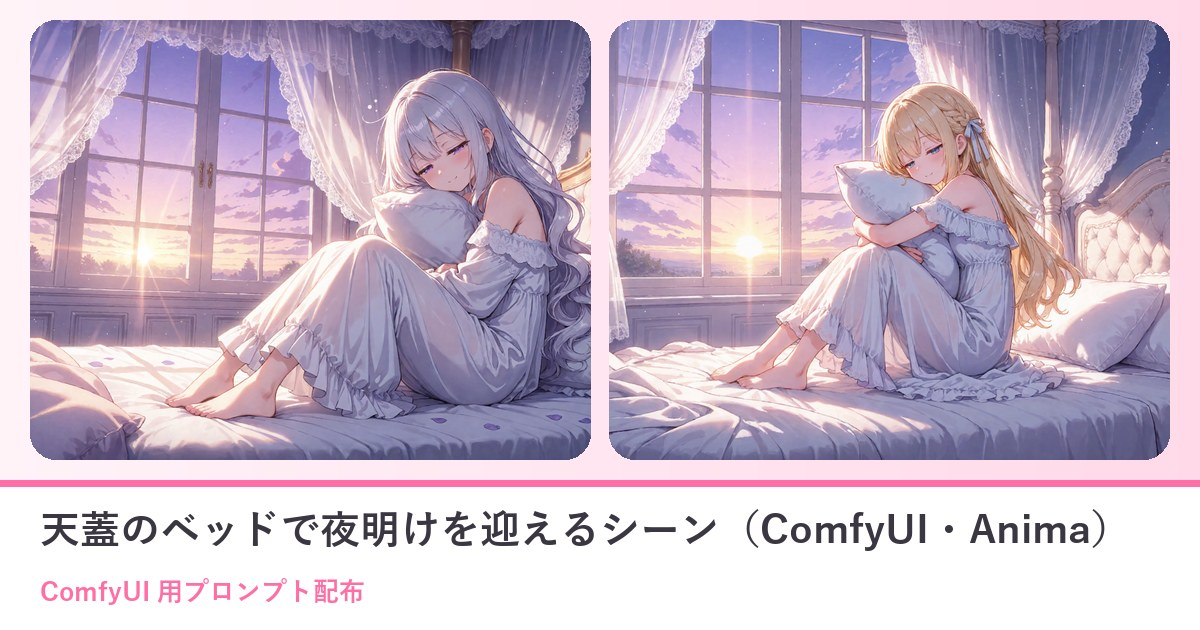
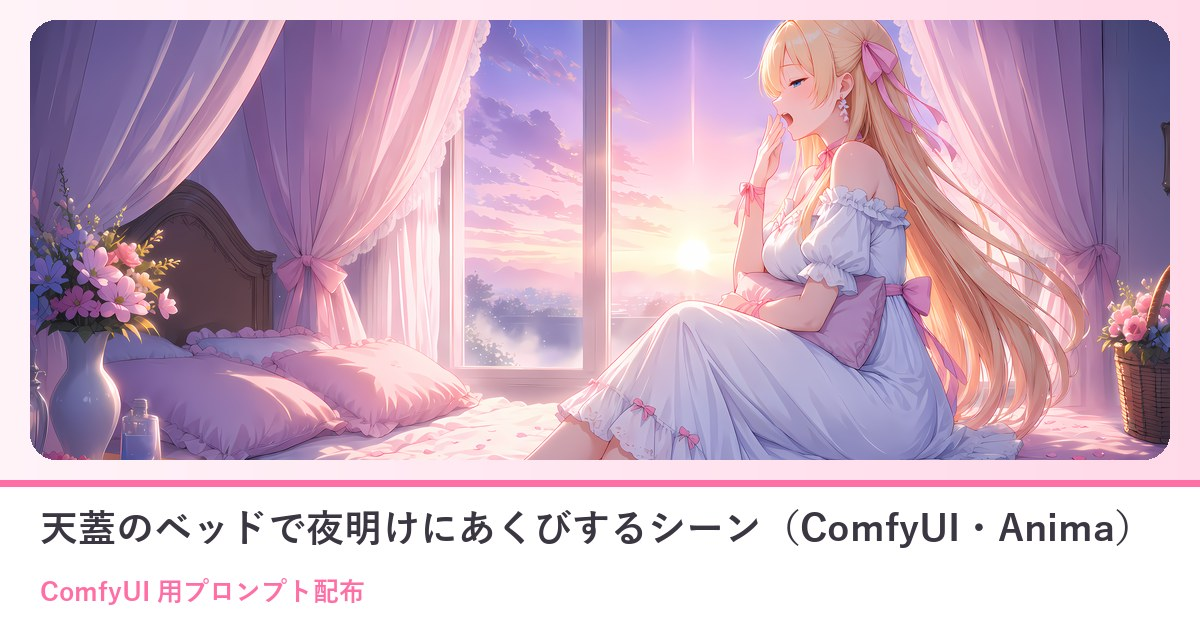
プロンプト配布 10/02 眠り姫 ComfyUI を1枚・LoRA あり／なしに作り直し

diff --git a/prompts/2026-10-02-comfy-btnmj75m.html b/prompts/2026-10-02-comfy-btnmj75m.html
@@ -3,17 +3,17 @@
 <head>
 <meta charset="UTF-8"><meta name="robots" content="noindex, nofollow, noarchive"><meta name="referrer" content="strict-origin">
 <meta name="viewport" content="width=device-width, initial-scale=1">
-<title>天蓋のベッドで夜明けを迎えるシーン（ComfyUI・Anima）｜ひみつの眠り姫</title>
-<meta name="description" content="レースのカーテンが透ける天蓋のベッドに、紫色の夜明けの光。白いネグリジェで枕をぎゅっと抱えて、まだ眠たげに微笑むお姫さまのシーンのプロンプトです。オリキャラがいなくても、そのまま貼るだけで綺麗な女の子で出ます。自分のキャ">
-<meta property="og:title" content="天蓋のベッドで夜明けを迎えるシーン（ComfyUI・Anima）｜ひみつの眠り姫">
-<meta property="og:description" content="レースのカーテンが透ける天蓋のベッドに、紫色の夜明けの光。白いネグリジェで枕をぎゅっと抱えて、まだ眠たげに微笑むお姫さまのシーンのプロンプトです。オリキャラがいなくても、そのまま貼るだけで綺麗な女の子で出ます。自分のキャ">
+<title>天蓋のベッドで夜明けにあくびするシーン（ComfyUI・Anima）｜ひみつの眠り姫</title>
+<meta name="description" content="レースのカーテンが透ける天蓋のベッドに、紫色の夜明けの光。枕をぎゅっと抱えたまま、口もとに手をあてて小さくあくびをする、まだ眠たげなお姫さまのシーンのプロンプトです。LoRA が無くても、A をそのまま貼るだけで綺麗な女">
+<meta property="og:title" content="天蓋のベッドで夜明けにあくびするシーン（ComfyUI・Anima）｜ひみつの眠り姫">
+<meta property="og:description" content="レースのカーテンが透ける天蓋のベッドに、紫色の夜明けの光。枕をぎゅっと抱えたまま、口もとに手をあてて小さくあくびをする、まだ眠たげなお姫さまのシーンのプロンプトです。LoRA が無くても、A をそのまま貼るだけで綺麗な女">
 <meta property="og:type" content="article">
 <meta property="og:url" content="https://himitsu-nemurihime.github.io/prompts/2026-10-02-comfy-btnmj75m.html">
 <meta property="og:image" content="https://himitsu-nemurihime.github.io/prompts/img/2026-10-02-comfy-btnmj75m/og.jpg">
 <meta property="og:image:width" content="1200"><meta property="og:image:height" content="630">
 <meta name="twitter:card" content="summary_large_image">
-<meta name="twitter:title" content="天蓋のベッドで夜明けを迎えるシーン（ComfyUI・Anima）｜ひみつの眠り姫">
-<meta name="twitter:description" content="レースのカーテンが透ける天蓋のベッドに、紫色の夜明けの光。白いネグリジェで枕をぎゅっと抱えて、まだ眠たげに微笑むお姫さまのシーンのプロンプトです。オリキャラがいなくても、そのまま貼るだけで綺麗な女の子で出ます。自分のキャ">
+<meta name="twitter:title" content="天蓋のベッドで夜明けにあくびするシーン（ComfyUI・Anima）｜ひみつの眠り姫">
+<meta name="twitter:description" content="レースのカーテンが透ける天蓋のベッドに、紫色の夜明けの光。枕をぎゅっと抱えたまま、口もとに手をあてて小さくあくびをする、まだ眠たげなお姫さまのシーンのプロンプトです。LoRA が無くても、A をそのまま貼るだけで綺麗な女">
 <meta name="twitter:image" content="https://himitsu-nemurihime.github.io/prompts/img/2026-10-02-comfy-btnmj75m/og.jpg">
 <meta name="theme-color" content="#FFF3F8">
 <link rel="preconnect" href="https://fonts.googleapis.com">
@@ -68,15 +68,17 @@
 @media(max-width:560px){.ps-ba{grid-template-columns:1fr}.ps-ba .arr{transform:rotate(90deg);text-align:center}.ps-vars,.ps-vars tbody,.ps-vars tr,.ps-vars th,.ps-vars td{display:block;width:auto;white-space:normal}.ps-vars tr:first-child{display:none}.ps-vars tr{border-bottom:1px solid var(--ps-line);padding:4px 0}.ps-vars th,.ps-vars td{border:0;padding:6px 12px}}
 .ps{overflow-wrap:anywhere}.ps-vars td,.ps-vars th{overflow-wrap:anywhere}.ps img{max-width:100%}
 </style>
-<!--ps-meta {"date": "2026-10-02", "title": "天蓋のベッドで夜明けを迎えるシーン（ComfyUI・Anima）", "kind": "comfy", "nsfw": false, "summary": "天蓋のベッドで枕を抱えて、紫の夜明けに眠たげに微笑む一枚。貼るだけで作れます。", "thumb": "img/2026-10-02-comfy-btnmj75m/ex1.webp"}-->
+<!--ps-meta {"date": "2026-10-02", "title": "天蓋のベッドで夜明けにあくびするシーン（ComfyUI・Anima）", "kind": "comfy", "nsfw": false, "summary": "天蓋のベッドで枕を抱えて、紫の夜明けにあくびする一枚。LoRA あり／なしの2通り。", "thumb": "img/2026-10-02-comfy-btnmj75m/ex1.webp"}-->
 </head>
 <body>
 <div class="sky"></div>
 <main class="wrap">
-<section class="sec"><div class="sec-head"><h2>天蓋のベッドで夜明けを迎えるシーン（ComfyUI・Anima）</h2><p>ひみつの眠り姫のプロンプト配布</p></div>
-<div class="ps"><p><span class="ps-badge">ComfyUI 用</span><span class="ps-badge">2026-10-02</span></p><p class="ps-lead">レースのカーテンが透ける天蓋のベッドに、紫色の夜明けの光。白いネグリジェで枕をぎゅっと抱えて、まだ眠たげに微笑むお姫さまのシーンのプロンプトです。オリキャラがいなくても、そのまま貼るだけで綺麗な女の子で出ます。自分のキャラにしたいときは、1行目の見た目だけ書き換えてください。</p><nav class="ps-toc" aria-label="目次"><p>📑 目次</p><ol><li><a href="#sec1">作例</a></li><li><a href="#sec2">3人のおしゃべり（あと五分だけ）</a></li><li><a href="#sec3">使い方（3ステップ）</a></li><li><a href="#sec4">プロンプト</a></li><li><a href="#sec5">必要なもの（ComfyUI）</a></li><li><a href="#sec6">メモ</a></li><li><a href="#sec7">配布ルール</a></li><li><a href="#sec8">バックナンバー</a></li></ol></nav><h2 id="sec1">作例</h2><div class="ps-ex"><figure><img src="img/2026-10-02-comfy-btnmj75m/ex1.webp" alt="1行目そのまま（1girl, solo, long hair, wavy hair, silver hair, purple eyes）" loading="lazy"><figcaption>1行目そのまま（1girl, solo, long hair, wavy hair, silver hair, purple eyes）</figcaption></figure><figure><img src="img/2026-10-02-comfy-btnmj75m/ex2.webp" alt="1行目を「1girl, solo, long hair, blonde hair, braid, hair ribbon, blue eyes」に" loading="lazy"><figcaption>1行目を「1girl, solo, long hair, blonde hair, braid, hair ribbon, blue eyes」に</figcaption></figure><figure><img src="img/2026-10-02-comfy-btnmj75m/ex3.webp" alt="1行目を「1girl, solo, medium hair, light green hair, pink streaks, hair flower, green eyes」に" loading="lazy"><figcaption>1行目を「1girl, solo, medium hair, light green hair, pink streaks, hair flower, green eyes」に</figcaption></figure><figure><img src="img/2026-10-02-comfy-btnmj75m/ex4.webp" alt="1行目を「1girl, solo, short hair, black hair, hairclip, red eyes」に" loading="lazy"><figcaption>1行目を「1girl, solo, short hair, black hair, hairclip, red eyes」に</figcaption></figure></div><p style="font-size:.82rem;color:var(--ps-ink)">※作例の画像の転載・保存しての再配布はご遠慮ください。</p><h2 id="sec2">3人のおしゃべり（あと五分だけ）</h2><div class="ps-chat"><img src="img/2026-10-02-comfy-btnmj75m/talk_ref_tiru.webp" alt="ティルナ" loading="lazy"><div><div class="who">ティルナ</div><div class="bub">見て見て！ 枕をぎゅーってして、まだ眠たそうに笑ってる〜！ あと五分だけ、ってお顔だよ！</div></div></div><div class="ps-chat r"><img src="img/2026-10-02-comfy-btnmj75m/talk_ref_sefi.webp" alt="セフィリア" loading="lazy"><div><div class="who">セフィリア</div><div class="bub">まあ……天蓋のレースのカーテン越しに、紫色の夜明けの光。窓辺のお花まで、朝の色に染まっておりますね</div></div></div><div class="ps-chat r"><img src="img/2026-10-02-comfy-btnmj75m/talk_ref_lilia.webp" alt="リリア" loading="lazy"><div><div class="who">リリア</div><div class="bub">1行目の髪の色を書き換えるだけで、金髪の三つ編みにも、黒髪のショートにもなりますの。オリキャラがいなくても、そのままで綺麗に出ますわ</div></div></div><div class="ps-chat"><img src="img/2026-10-02-comfy-btnmj75m/talk_ref_tiru.webp" alt="ティルナ" loading="lazy"><div><div class="who">ティルナ</div><div class="bub">白いネグリジェのフリル、ふわっふわ……わたしもこのベッドで二度寝したい〜！</div></div></div><div class="ps-chat r"><img src="img/2026-10-02-comfy-btnmj75m/talk_ref_sefi.webp" alt="セフィリア" loading="lazy"><div><div class="who">セフィリア</div><div class="bub">ぱっちりお目覚めの顔にしたいときは、2行目の half-closed eyes を消せばよいそうでございます</div></div></div><div class="ps-chat r"><img src="img/2026-10-02-comfy-btnmj75m/talk_ref_lilia.webp" alt="リリア" loading="lazy"><div><div class="who">リリア</div><div class="bub">でも眠たげなままのほうが、眠り姫らしくて可愛らしいですわね。おはようございます、ですわ</div></div></div><h2 id="sec3">使い方（3ステップ）</h2><ol class="ps-steps"><li>ComfyUI で Anima のモデルを読み、基本の画像生成（テキストから画像）の画面にする</li><li>下のポジティブとネガティブをワンタップでコピーして貼る（自分のキャラにするなら1行目だけ書き換える）</li><li>「推奨値」の大きさ・steps・CFG にして生成する（できれば 1.5 倍の hires fix も）</li></ol><h2 id="sec4">プロンプト</h2><div class="ps-note" style="margin-bottom:12px"><b>変えるのは1行目（色の付いた行）だけ</b><ul><li>1行目＝キャラの見た目（髪の色・髪型・目の色など）。自分のキャラの特徴に書き換えてね</li><li>オリキャラがいない人は、<b>そのまま</b>コピーして使えばOK（作例の女の子で出ます）</li><li>自分のキャラの LoRA がある人は、1行目に LoRA のトリガー語を入れてね</li><li>2行目から下（シーン）と、ネガティブプロンプトは変えずにそのまま</li><li>🚫 版権キャラの名前・版権キャラの LoRA を入れて使うのは固く禁止です（下の「配布ルール」）</li></ul></div><div class="ps-box"><button class="ps-copy" type="button" data-target="ps-prompt">📋 ワンタップでコピー</button><p style="margin:0 0 8px;font-size:.82rem;color:var(--ps-a)">ポジティブプロンプト</p><pre><mark class="ps-in" data-key="キャラの行">1girl, solo, long hair, wavy hair, silver hair, purple eyes</mark>
-masterpiece, best quality, score_7, safe, sleepy smile, half-closed eyes, sitting on bed, hugging pillow, white nightgown, frilled dress, lace trim, off shoulder, bare shoulders, wide shot, from side, canopy bed, sheer curtains, lace curtains, white sheets, messy bed, bedroom, window, dawn, sunrise, morning light, purple sky, light rays, dust particles, flower vase, pastel colors, depth of field, detailed background, scenery, cinematic lighting, ethereal</pre><textarea class="ps-copyarea" id="ps-prompt" readonly aria-hidden="true" tabindex="-1">1girl, solo, long hair, wavy hair, silver hair, purple eyes
-masterpiece, best quality, score_7, safe, sleepy smile, half-closed eyes, sitting on bed, hugging pillow, white nightgown, frilled dress, lace trim, off shoulder, bare shoulders, wide shot, from side, canopy bed, sheer curtains, lace curtains, white sheets, messy bed, bedroom, window, dawn, sunrise, morning light, purple sky, light rays, dust particles, flower vase, pastel colors, depth of field, detailed background, scenery, cinematic lighting, ethereal</textarea></div><div style="height:12px"></div><div class="ps-box"><button class="ps-copy" type="button" data-target="ps-negative">📋 ワンタップでコピー</button><p style="margin:0 0 8px;font-size:.82rem;color:var(--ps-a)">ネガティブプロンプト</p><pre>worst quality, low quality, lowres, bad anatomy, bad hands, extra fingers, missing fingers, fused fingers, blurry, jpeg artifacts, text, watermark, signature, logo, extra person, multiple girls, cropped, out of frame, japanese text, chinese text, korean text, kanji, hiragana, katakana, calligraphy</pre><textarea class="ps-copyarea" id="ps-negative" readonly aria-hidden="true" tabindex="-1">worst quality, low quality, lowres, bad anatomy, bad hands, extra fingers, missing fingers, fused fingers, blurry, jpeg artifacts, text, watermark, signature, logo, extra person, multiple girls, cropped, out of frame, japanese text, chinese text, korean text, kanji, hiragana, katakana, calligraphy</textarea></div><h2 id="sec5">必要なもの（ComfyUI）</h2><div class="ps-note">🧩 <b>カスタムノードは使っていません</b>。LoRA も要りません。ComfyUI の基本の画像生成（テキストから画像）に、ポジティブ・ネガティブを貼って、下の推奨値にするだけです。</div><table class="ps-vars" style="margin-top:12px"><tr><th>モデル</th><th>ファイル</th><th>置き場</th></tr><tr><td>Anima 系のモデル</td><td>PrismPalette_ANIMA_v1 など好きな Anima</td><td><code>models/diffusion_models</code></td></tr><tr><td>テキストエンコーダ（Anima 用）</td><td>qwen_3_06b_base.safetensors</td><td><code>models/text_encoders</code></td></tr><tr><td>VAE（Anima 用）</td><td>qwen_image_vae.safetensors</td><td><code>models/vae</code></td></tr></table><h2>推奨値</h2><table class="ps-vars"><tr><th>大きさ</th><td colspan="2">1536×864（横長＝ベッドと窓の夜明けまで入る）</td></tr><tr><th>steps</th><td colspan="2">30</td></tr><tr><th>CFG</th><td colspan="2">4.5</td></tr><tr><th>sampler</th><td colspan="2">er_sde</td></tr><tr><th>scheduler</th><td colspan="2">beta</td></tr><tr><th>hires fix（任意）</th><td colspan="2">1.5 倍に拡大して denoise 0.4・同じ steps と CFG（作例はこれ）</td></tr><tr><th>LoRA</th><td colspan="2">要りません（自分のキャラの LoRA があれば使ってOK）</td></tr></table><h2 id="sec6">メモ</h2><ul class="ps-rules"><li>1行目には見た目だけを書いてください（髪の色・長さ・髪型・髪飾り・目の色など）。ネグリジェやお部屋は2行目からに入っているので、書かなくて大丈夫です。</li><li>目は半分とじた眠たげな顔になります。ぱっちり起こしたいときは、2行目の half-closed eyes を消してください。</li><li>手は枕を抱える形にしてあるので、くずれにくくなっています。くずれたら seed を変えて何枚か焼いてください。</li><li>ほかのモデル（SDXL・Illustrious など）でも、2行目の先頭の masterpiece, best quality, score_7, safe をそのモデルの品質の語に替えれば使えます（作例は Anima です）。</li></ul><h2 id="sec7">配布ルール</h2><ul class="ps-rules"><li>⭕ プロンプトの改変は自由です。</li><li>⭕ 生成した画像は SNS に投稿して大丈夫です。</li><li>❌ プロンプト文そのものの転載・再配布・販売はしないでください。</li><li>❌ 自作のプロンプトだと名乗ることはやめてください。</li><li>❌ このページの作例画像の無断転載はしないでください。</li><li class="ps-rights">🚫 <b>アニメ・漫画・ゲームなどの版権キャラクター（著作権・商標のあるキャラ）、他の人のキャラクターやイラスト、実在の人物の写真を添付画像にして使うことは固く禁止します。</b>版権キャラの名前や、版権キャラの LoRA を入れて使うことも禁止です。</li><li>✅ 添付してよいのは、<b>自分で作ったキャラクター・自分が権利を持つ画像</b>（または権利者から使ってよいと言われた画像）だけです。</li><li>⚠ 生成した画像の使い方（投稿・公開など）は、使った人の責任でお願いします。権利の問題が起きても、配布者は責任を負えません。</li><li>💌 使ったら <b>#眠り姫プロンプト</b> を付けて見せてくれたら、とても嬉しいです（任意です）。</li></ul><h2 id="sec8">バックナンバー</h2><div class="ps-note">📚 これまでの配布は <a href="index.html"><b>バックナンバー</b></a> にまとめてあります（作例の絵と内容が一覧で見られます）。お友だちに教えるときは、バックナンバーのページの URL を送ればOKです。</div></div>
+<section class="sec"><div class="sec-head"><h2>天蓋のベッドで夜明けにあくびするシーン（ComfyUI・Anima）</h2><p>ひみつの眠り姫のプロンプト配布</p></div>
+<div class="ps"><p><span class="ps-badge">ComfyUI 用</span><span class="ps-badge">2026-10-02</span></p><p class="ps-lead">レースのカーテンが透ける天蓋のベッドに、紫色の夜明けの光。枕をぎゅっと抱えたまま、口もとに手をあてて小さくあくびをする、まだ眠たげなお姫さまのシーンのプロンプトです。LoRA が無くても、A をそのまま貼るだけで綺麗な女の子で出ます。自分のキャラの LoRA を持っている人は B をどうぞ。</p><nav class="ps-toc" aria-label="目次"><p>📑 目次</p><ol><li><a href="#sec1">作例</a></li><li><a href="#sec2">3人のおしゃべり（あと五分だけ）</a></li><li><a href="#sec3">使い方（3ステップ）</a></li><li><a href="#sec4">プロンプト</a></li><li><a href="#sec5">必要なもの（ComfyUI）</a></li><li><a href="#sec6">メモ</a></li><li><a href="#sec7">配布ルール</a></li></ol></nav><h2 id="sec1">作例</h2><div class="ps-ex"><figure><img src="img/2026-10-02-comfy-btnmj75m/ex1.webp" alt="セフィリア（眠り姫の LoRA・いつもの投稿と同じ仕上げ）" loading="lazy"><figcaption>セフィリア（眠り姫の LoRA・いつもの投稿と同じ仕上げ）</figcaption></figure></div><p style="font-size:.82rem;color:var(--ps-ink)">※作例の画像の転載・保存しての再配布はご遠慮ください。</p><h2 id="sec2">3人のおしゃべり（あと五分だけ）</h2><div class="ps-chat"><img src="img/2026-10-02-comfy-btnmj75m/talk_ref_tiru.webp" alt="ティルナ" loading="lazy"><div><div class="who">ティルナ</div><div class="bub">見て見て！ セフィーが枕をぎゅーってしたまま、ふあ〜ってあくびしてる〜！</div></div></div><div class="ps-chat r"><img src="img/2026-10-02-comfy-btnmj75m/talk_ref_sefi.webp" alt="セフィリア" loading="lazy"><div><div class="who">セフィリア</div><div class="bub">まあ……お恥ずかしい。天蓋のカーテン越しの夜明けが、あまりに心地よくて</div></div></div><div class="ps-chat r"><img src="img/2026-10-02-comfy-btnmj75m/talk_ref_lilia.webp" alt="リリア" loading="lazy"><div><div class="who">リリア</div><div class="bub">LoRA が無い方は A をそのまま貼るだけですわ。1行目の髪の色を変えれば、ご自分の子にも近づけられますの</div></div></div><div class="ps-chat"><img src="img/2026-10-02-comfy-btnmj75m/talk_ref_tiru.webp" alt="ティルナ" loading="lazy"><div><div class="who">ティルナ</div><div class="bub">LoRA がある人は B だよ！ 1行目の your_lora_trigger を自分のトリガー語にするだけ！</div></div></div><div class="ps-chat r"><img src="img/2026-10-02-comfy-btnmj75m/talk_ref_sefi.webp" alt="セフィリア" loading="lazy"><div><div class="who">セフィリア</div><div class="bub">足首のリボンも、窓辺のお花も、朝の色に染まっております。……あと五分だけ、よろしいでしょうか</div></div></div><div class="ps-chat r"><img src="img/2026-10-02-comfy-btnmj75m/talk_ref_lilia.webp" alt="リリア" loading="lazy"><div><div class="who">リリア</div><div class="bub">ふふ、今日だけですわよ。おはようございます</div></div></div><h2 id="sec3">使い方（3ステップ）</h2><ol class="ps-steps"><li>ComfyUI で Anima のモデルを読み、基本の画像生成（テキストから画像）の画面にする</li><li>下の A（LoRA なし）か B（LoRA あり）のポジティブと、ネガティブをワンタップでコピーして貼る</li><li>「推奨値」の大きさ・steps・CFG にして生成する（できれば 1.5 倍の hires fix も）</li></ol><h2 id="sec4">プロンプト</h2><div class="ps-note" style="margin-bottom:12px"><b>変えるのは1行目（色の付いた行）だけ</b><ul><li>使うプロンプトは2通り＝<b>A. LoRA を持っていない人</b>／<b>B. 自分のキャラの LoRA を持っている人</b>。どちらも丸ごとコピーして貼るだけ</li><li>A は<b>そのまま</b>でも綺麗な女の子で出ます。自分のキャラにするなら1行目の髪の色・髪型・目の色を書き換えるだけ</li><li>B は1行目の <code>your_lora_trigger</code> を自分の LoRA のトリガー語に置きかえるだけ（LoRA の強さは下の表）</li><li>2行目から下（シーン）と、ネガティブプロンプトは変えずにそのまま</li><li>🚫 版権キャラの名前・版権キャラの LoRA を入れて使うのは固く禁止です（下の「配布ルール」）</li></ul></div><h3 style="margin:14px 0 8px">A. LoRA を持っていない人（そのままでもOK）</h3><div class="ps-box"><button class="ps-copy" type="button" data-target="ps-prompt">📋 ワンタップでコピー</button><p style="margin:0 0 8px;font-size:.82rem;color:var(--ps-a)">ポジティブプロンプト</p><pre><mark class="ps-in" data-key="キャラの行">1girl, solo, long hair, blonde hair, braid, blue eyes</mark>
+masterpiece, best quality, score_7, safe, full body, from side, wide shot, sleepy, half-closed eyes, smile, sitting, on bed, pillow hug, yawning, hand to own mouth, floating hair, canopy bed, bedroom, curtains, window, dawn, sunrise, purple sky, light rays, dust particles, pastel colors, white nightgown, frilled dress, off-shoulder, bare shoulders, puffy short sleeves, lace, lace trim, polka dot, ruffled skirt, barefoot, anklet, hair ribbon, flower earrings, wrist ribbon, ribbon choker, flower basket, vase, flower, petals, pink bow, mist, depth of field</pre><textarea class="ps-copyarea" id="ps-prompt" readonly aria-hidden="true" tabindex="-1">1girl, solo, long hair, blonde hair, braid, blue eyes
+masterpiece, best quality, score_7, safe, full body, from side, wide shot, sleepy, half-closed eyes, smile, sitting, on bed, pillow hug, yawning, hand to own mouth, floating hair, canopy bed, bedroom, curtains, window, dawn, sunrise, purple sky, light rays, dust particles, pastel colors, white nightgown, frilled dress, off-shoulder, bare shoulders, puffy short sleeves, lace, lace trim, polka dot, ruffled skirt, barefoot, anklet, hair ribbon, flower earrings, wrist ribbon, ribbon choker, flower basket, vase, flower, petals, pink bow, mist, depth of field</textarea></div><h3 style="margin:18px 0 8px">B. 自分のキャラの LoRA を持っている人</h3><div class="ps-box"><button class="ps-copy" type="button" data-target="ps-prompt-lora">📋 ワンタップでコピー</button><p style="margin:0 0 8px;font-size:.82rem;color:var(--ps-a)">ポジティブプロンプト（LoRA 用）</p><pre><mark class="ps-in" data-key="キャラの行">1girl, solo, your_lora_trigger</mark>
+masterpiece, best quality, score_7, safe, full body, from side, wide shot, sleepy, half-closed eyes, smile, sitting, on bed, pillow hug, yawning, hand to own mouth, floating hair, canopy bed, bedroom, curtains, window, dawn, sunrise, purple sky, light rays, dust particles, pastel colors, white nightgown, frilled dress, off-shoulder, bare shoulders, puffy short sleeves, lace, lace trim, polka dot, ruffled skirt, barefoot, anklet, hair ribbon, flower earrings, wrist ribbon, ribbon choker, flower basket, vase, flower, petals, pink bow, mist, depth of field</pre><textarea class="ps-copyarea" id="ps-prompt-lora" readonly aria-hidden="true" tabindex="-1">1girl, solo, your_lora_trigger
+masterpiece, best quality, score_7, safe, full body, from side, wide shot, sleepy, half-closed eyes, smile, sitting, on bed, pillow hug, yawning, hand to own mouth, floating hair, canopy bed, bedroom, curtains, window, dawn, sunrise, purple sky, light rays, dust particles, pastel colors, white nightgown, frilled dress, off-shoulder, bare shoulders, puffy short sleeves, lace, lace trim, polka dot, ruffled skirt, barefoot, anklet, hair ribbon, flower earrings, wrist ribbon, ribbon choker, flower basket, vase, flower, petals, pink bow, mist, depth of field</textarea></div><table class="ps-vars" style="margin-top:10px"><tr><th>LoRA のつなぎ方</th><td colspan="2">Load Diffusion Model（Anima）のうしろに LoraLoaderModelOnly を1つ足す（CLIP にはつながない）</td></tr><tr><th>LoRA の強さ（strength_model）</th><td colspan="2">0.8〜0.9（作例は 0.85）</td></tr><tr><th>1行目</th><td colspan="2">your_lora_trigger を自分の LoRA のトリガー語に置きかえる（髪や目の色は LoRA が覚えているので書かなくてOK）</td></tr></table><p style="font-size:.85rem;margin:10px 0 0">ネガティブプロンプトは A・B 共通（下）です。</p><div style="height:12px"></div><div class="ps-box"><button class="ps-copy" type="button" data-target="ps-negative">📋 ワンタップでコピー</button><p style="margin:0 0 8px;font-size:.82rem;color:var(--ps-a)">ネガティブプロンプト</p><pre>worst quality, low quality, lowres, bad anatomy, bad hands, extra fingers, missing fingers, fused fingers, blurry, jpeg artifacts, text, watermark, signature, logo, extra person, multiple girls, cropped, out of frame, japanese text, chinese text, korean text, kanji, hiragana, katakana, calligraphy</pre><textarea class="ps-copyarea" id="ps-negative" readonly aria-hidden="true" tabindex="-1">worst quality, low quality, lowres, bad anatomy, bad hands, extra fingers, missing fingers, fused fingers, blurry, jpeg artifacts, text, watermark, signature, logo, extra person, multiple girls, cropped, out of frame, japanese text, chinese text, korean text, kanji, hiragana, katakana, calligraphy</textarea></div><h2 id="sec5">必要なもの（ComfyUI）</h2><div class="ps-note">🧩 <b>カスタムノードは使っていません</b>。LoRA が無くても大丈夫（A のプロンプト）。ComfyUI の基本の画像生成（テキストから画像）に、ポジティブ・ネガティブを貼って、下の推奨値にするだけです。LoRA を使う人は「LoraLoaderModelOnly」を1つ足すだけ（B のプロンプト）。</div><table class="ps-vars" style="margin-top:12px"><tr><th>モデル</th><th>ファイル</th><th>置き場</th></tr><tr><td>Anima 系のモデル</td><td>PrismPalette_ANIMA_v1 など好きな Anima</td><td><code>models/diffusion_models</code></td></tr><tr><td>テキストエンコーダ（Anima 用）</td><td>qwen_3_06b_base.safetensors</td><td><code>models/text_encoders</code></td></tr><tr><td>VAE（Anima 用）</td><td>qwen_image_vae.safetensors</td><td><code>models/vae</code></td></tr></table><h2>推奨値</h2><table class="ps-vars"><tr><th>大きさ</th><td colspan="2">1536×864（横長＝ベッドと窓の夜明けまで入る）</td></tr><tr><th>steps</th><td colspan="2">30</td></tr><tr><th>CFG</th><td colspan="2">4.5</td></tr><tr><th>sampler</th><td colspan="2">er_sde</td></tr><tr><th>scheduler</th><td colspan="2">beta</td></tr><tr><th>hires fix（任意）</th><td colspan="2">1.5 倍に拡大して denoise 0.4・同じ steps と CFG（試し焼きはこれ）</td></tr><tr><th>LoRA</th><td colspan="2">無くてOK（A のプロンプト）。自分のキャラの LoRA があれば B のプロンプトで</td></tr></table><h2 id="sec6">メモ</h2><ul class="ps-rules"><li>A（LoRA なし）は1行目の髪の色・長さ・髪型・目の色を書き換えるだけで、自分のキャラに近づけられます。そのままでも綺麗な女の子で出ます（試し焼きで確かめてあります）。</li><li>B（LoRA あり）は1行目の your_lora_trigger を自分の LoRA のトリガー語にするだけ。髪や目の色は LoRA が覚えているので書かなくて大丈夫です。</li><li>あくびの手は口もと、もう片方は枕を抱える形にしてあるので、くずれにくくなっています。くずれたら seed を変えて何枚か焼いてください。</li><li>ほかのモデル（SDXL・Illustrious など）でも、2行目の先頭の masterpiece, best quality, score_7, safe をそのモデルの品質の語に替えれば使えます（作例は Anima です）。</li></ul><h2 id="sec7">配布ルール</h2><ul class="ps-rules"><li>⭕ プロンプトの改変は自由です。</li><li>⭕ 生成した画像は SNS に投稿して大丈夫です。</li><li>❌ プロンプト文そのものの転載・再配布・販売はしないでください。</li><li>❌ 自作のプロンプトだと名乗ることはやめてください。</li><li>❌ このページの作例画像の無断転載はしないでください。</li><li class="ps-rights">🚫 <b>アニメ・漫画・ゲームなどの版権キャラクター（著作権・商標のあるキャラ）、他の人のキャラクターやイラスト、実在の人物の写真を添付画像にして使うことは固く禁止します。</b>版権キャラの名前や、版権キャラの LoRA を入れて使うことも禁止です。</li><li>✅ 添付してよいのは、<b>自分で作ったキャラクター・自分が権利を持つ画像</b>（または権利者から使ってよいと言われた画像）だけです。</li><li>⚠ 生成した画像の使い方（投稿・公開など）は、使った人の責任でお願いします。権利の問題が起きても、配布者は責任を負えません。</li><li>💌 使ったら <b>#眠り姫プロンプト</b> を付けて見せてくれたら、とても嬉しいです（任意です）。</li></ul></div>
 <p style="text-align:center;margin:34px 0 0"><a class="gate-btn ghost" href="../index.html" style="color:var(--ink-dim);border-color:var(--line)">部屋に戻る</a></p>
 </section>
 </main>
